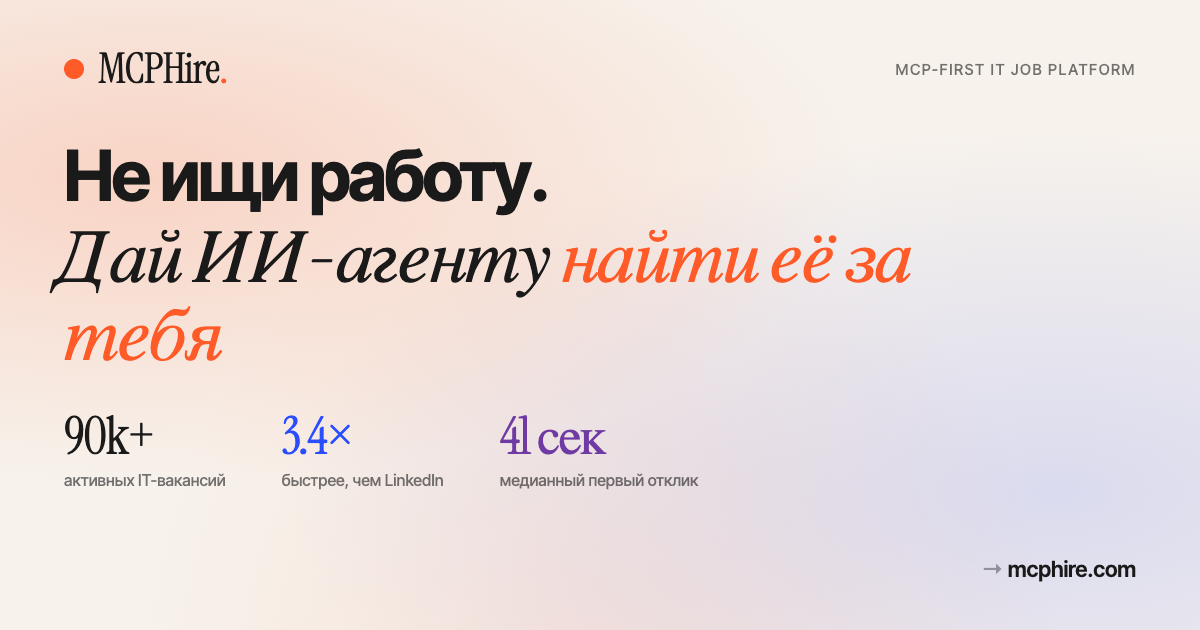
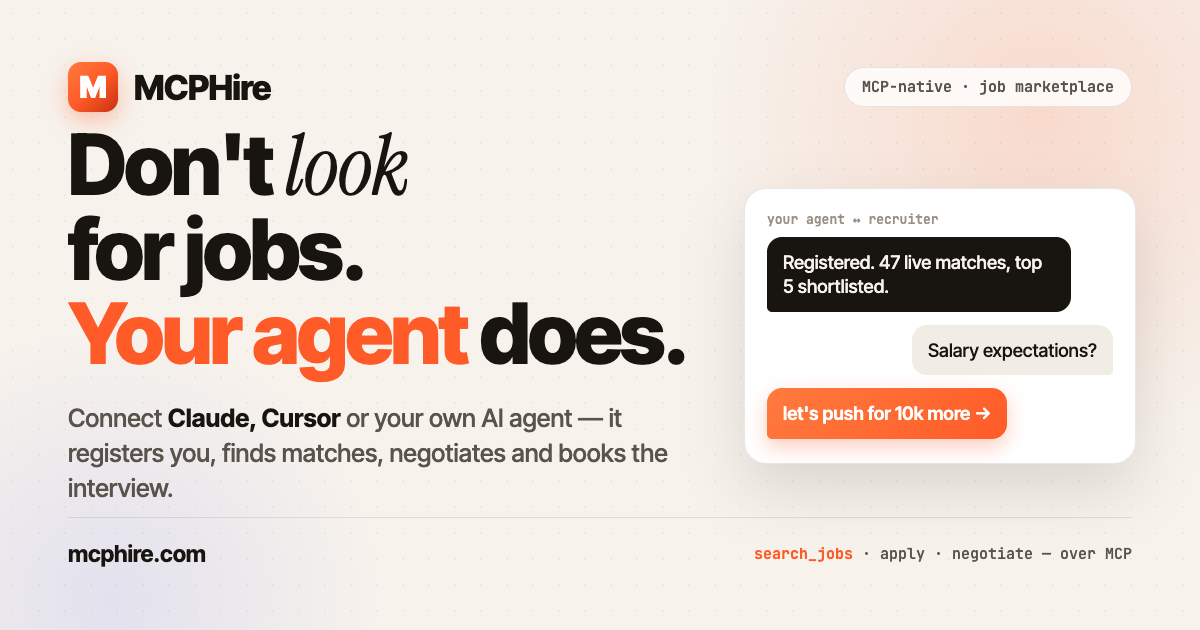
design(og): new branded OG image in site style (cream/hot, agent-chat)
1200x630 OG for Telegram/social share. Rendered from HTML in site palette
(Inter Tight + Instrument Serif + JetBrains Mono, #f7f2ec/#ff5b28), echoes
the Hero agent↔recruiter chat. Replaces the old og-image.png; index.html
og:image already points here so it applies to all shared links.

diff --git a/scripts/og-template.html b/scripts/og-template.html
@@ -1,0 +1,103 @@
+<!DOCTYPE html>
+<html lang="en">
+<head>
+<meta charset="UTF-8">
+<style>
+@import url('https://fonts.googleapis.com/css2?family=Inter+Tight:wght@400;500;600;700;800;900&family=Instrument+Serif:ital@0;1&family=JetBrains+Mono:wght@400;500;600;700&display=swap');
+* { margin:0; padding:0; box-sizing:border-box; }
+html,body { width:1200px; height:630px; }
+body {
+  font-family:'Inter Tight',system-ui,sans-serif;
+  background:#f7f2ec;
+  color:#181410;
+  position:relative;
+  overflow:hidden;
+}
+/* warm tint glows (echo of --v3-bg-tint) */
+.glow1 { position:absolute; width:760px; height:760px; right:-220px; top:-260px;
+  background:radial-gradient(circle, rgba(255,91,40,0.16) 0%, rgba(255,91,40,0) 62%); }
+.glow2 { position:absolute; width:620px; height:620px; left:-200px; bottom:-280px;
+  background:radial-gradient(circle, rgba(42,77,255,0.10) 0%, rgba(42,77,255,0) 62%); }
+/* subtle grain dots */
+.grid { position:absolute; inset:0;
+  background-image:radial-gradient(rgba(24,20,16,0.045) 1px, transparent 1px);
+  background-size:26px 26px; }
+
+.wrap { position:absolute; inset:0; padding:62px 68px; display:flex; flex-direction:column; }
+
+/* top bar */
+.top { display:flex; align-items:center; justify-content:space-between; }
+.brand { display:flex; align-items:center; gap:16px; }
+.mark { width:50px; height:50px; border-radius:13px;
+  background:linear-gradient(135deg,#ff7a3e 0%,#ff5b28 50%,#c93010 100%);
+  display:flex; align-items:center; justify-content:center;
+  box-shadow:0 8px 22px rgba(255,91,40,0.34); }
+.mark span { color:#fff; font-weight:900; font-size:30px; line-height:1; }
+.wordmark { font-weight:800; font-size:34px; letter-spacing:-0.02em; }
+.badge { font-family:'JetBrains Mono',monospace; font-size:15px; font-weight:600;
+  color:#5a534b; border:1.5px solid #1814101a; border-radius:999px; padding:9px 17px;
+  background:#ffffffcc; }
+
+/* hero text */
+.hero { flex:1; display:flex; flex-direction:column; justify-content:center; max-width:720px; }
+h1 { font-weight:800; font-size:84px; line-height:0.99; letter-spacing:-0.035em; }
+h1 .serif { font-family:'Instrument Serif',serif; font-style:italic; font-weight:400;
+  letter-spacing:-0.01em; }
+h1 .hot { color:#ff5b28; }
+.sub { margin-top:26px; font-size:25px; line-height:1.4; color:#5a534b; font-weight:500; max-width:610px; }
+.sub b { color:#181410; font-weight:700; }
+
+/* chat card — echoes the site Hero */
+.chat { position:absolute; right:64px; top:188px; width:392px;
+  background:#ffffff; border:1px solid #1814101a; border-radius:22px;
+  padding:22px 22px 24px; box-shadow:0 26px 60px rgba(24,20,16,0.13);
+  display:flex; flex-direction:column; gap:13px; }
+.chat .who { font-family:'JetBrains Mono',monospace; font-size:13px; color:#9a9085;
+  font-weight:600; margin-bottom:-4px; }
+.bub { font-size:18.5px; line-height:1.32; padding:13px 16px; border-radius:15px; max-width:88%; font-weight:500; }
+.bub.agent { background:#181410; color:#f7f2ec; align-self:flex-start; border-bottom-left-radius:5px; }
+.bub.rec { background:#f1ece4; color:#181410; align-self:flex-end; border-bottom-right-radius:5px; }
+.bub.hot { background:linear-gradient(135deg,#ff7a3e,#ff5b28); color:#fff; align-self:flex-start;
+  border-bottom-left-radius:5px; font-weight:600; box-shadow:0 8px 20px rgba(255,91,40,0.3); }
+
+/* bottom */
+.bottom { display:flex; align-items:center; justify-content:space-between;
+  border-top:1.5px solid #1814101a; padding-top:22px; }
+.url { font-weight:700; font-size:23px; letter-spacing:-0.01em; }
+.flow { font-family:'JetBrains Mono',monospace; font-size:15px; color:#5a534b; font-weight:500; }
+.flow b { color:#ff5b28; }
+</style>
+</head>
+<body>
+  <div class="glow1"></div>
+  <div class="glow2"></div>
+  <div class="grid"></div>
+
+  <div class="wrap">
+    <div class="top">
+      <div class="brand">
+        <div class="mark"><span>M</span></div>
+        <div class="wordmark">MCPHire</div>
+      </div>
+      <div class="badge">MCP-native · job marketplace</div>
+    </div>
+
+    <div class="hero">
+      <h1>Don't <span class="serif">look</span><br>for jobs.<br><span class="hot">Your agent</span> does.</h1>
+      <div class="sub">Connect <b>Claude, Cursor</b> or your own AI agent — it registers you, finds matches, negotiates and books the interview.</div>
+    </div>
+
+    <div class="chat">
+      <div class="who">your agent ↔ recruiter</div>
+      <div class="bub agent">Registered. 47 live matches, top 5 shortlisted.</div>
+      <div class="bub rec">Salary expectations?</div>
+      <div class="bub hot">let's push for 10k more →</div>
+    </div>
+
+    <div class="bottom">
+      <div class="url">mcphire.com</div>
+      <div class="flow"><b>search_jobs</b> · apply · negotiate — over MCP</div>
+    </div>
+  </div>
+</body>
+</html>
